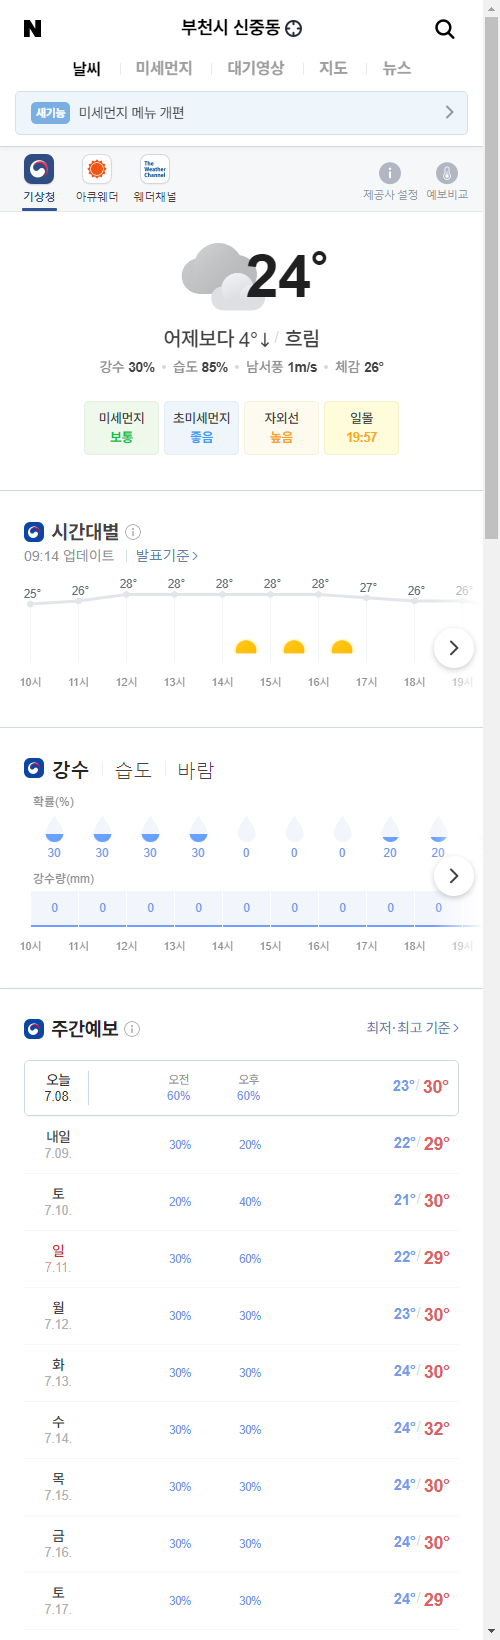
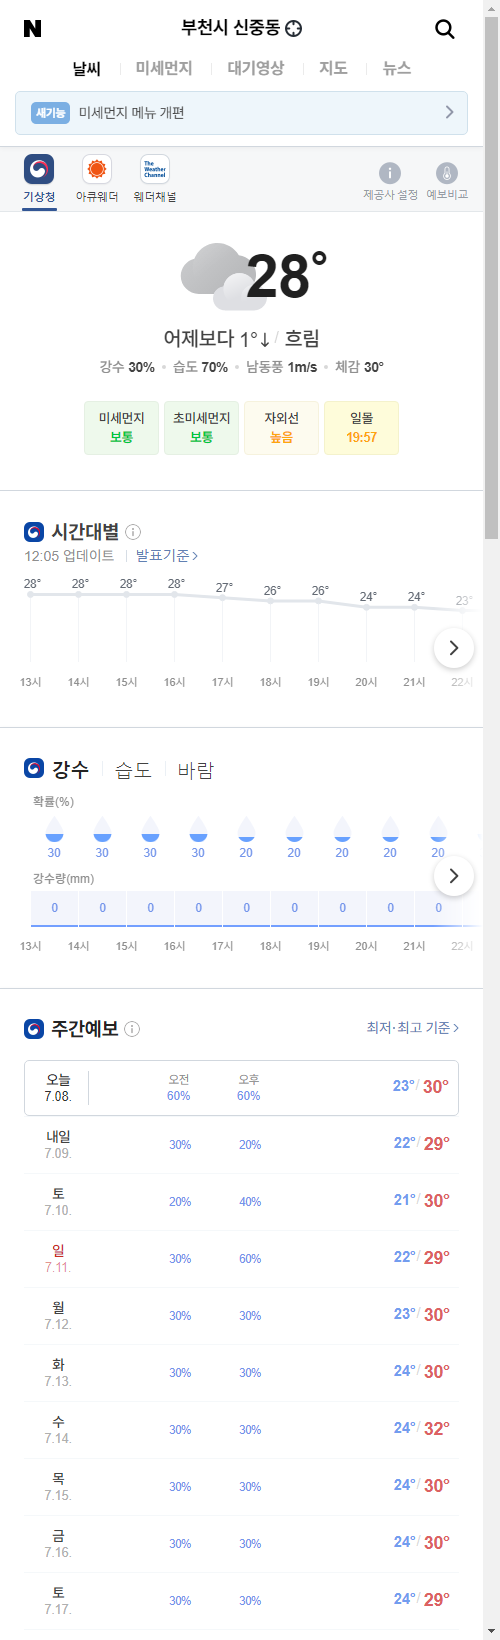
update result

diff --git a/README.md b/README.md
@@ -1,5 +1,5 @@
-##  2021-07-08 09:17:01   목요일 
-##### 날씨   -   어제보다 4° 낮아요흐림  
+##  2021-07-08 12:07:29   목요일 
+##### 날씨   -   어제보다 1° 낮아요흐림  
 <center><img src="../img/naver_weather_week.png"></center>
 ----
 ----
@@ -16,14 +16,14 @@
 <tr align = "right" > <td>DOW</td><td>34,681.79</td><td>104.42</td><td><font size="3" color="red" >0.3%</font></td><td><font size="3" color="black">0</font></td><td><font size="3" color="black">0</font></td><td>0</td>  </tr>
 <tr align = "right" > <td>NASDAQ</td><td>14,665.06</td><td>1.42</td><td><font size="3" color="red" >0.01%</font></td><td><font size="3" color="black">0</font></td><td><font size="3" color="black">0</font></td><td>0</td>  </tr>
 <tr align = "right" > <td>S&P</td><td>4,358.13</td><td>14.59</td><td><font size="3" color="red" >0.34%</font></td><td><font size="3" color="black">0</font></td><td><font size="3" color="black">0</font></td><td>0</td>  </tr>
-<tr align = "right" > <td>SHANHAI</td><td>3,553.72</td><td>23.46</td><td><font size="3" color="red" >0.66%</font></td><td><font size="3" color="black">0</font></td><td><font size="3" color="black">0</font></td><td>0</td>  </tr>
+<tr align = "right" > <td>SHANHAI</td><td>3,537.68</td><td>-16.04</td><td><font size="3" color="blue" >-0.45%</font></td><td><font size="3" color="black">0</font></td><td><font size="3" color="black">0</font></td><td>0</td>  </tr>
 <tr align = "right" > <td>INDIA</td><td>53,054.76</td><td>193.58</td><td><font size="3" color="red" >0.37%</font></td><td><font size="3" color="black">0</font></td><td><font size="3" color="black">0</font></td><td>0</td>  </tr>
 </table>
 ----
 ##### 시장
 <table border="1" bordercolor="blue" align = "center" >
 <tr align = "right" > <td>Item</td><td>Price</td><td>Diff</td><td>Rate</td><td>Buy</td><td>Sell</td><td>...</td>  </tr>
-<tr align = "right" > <td>USD</td><td>1,140.0</td><td>2.8</td><td><font size="3" color="red">0.25%</font></td><td><font size="3" color="black">1,110</font></td><td><font size="3" color="black">0</font></td><td>0</td>  </tr>
+<tr align = "right" > <td>USD</td><td>1,143.0</td><td>6.0</td><td><font size="3" color="red">0.53%</font></td><td><font size="3" color="black">1,110</font></td><td><font size="3" color="black">0</font></td><td>0</td>  </tr>
 <tr align = "right" > <td>WTI</td><td>72.2</td><td>-1.17</td><td><font size="3" color="blue">-1.59%</font></td><td><font size="3" color="black">29.0</font></td><td><font size="3" color="black">0</font></td><td>0</td>  </tr>
 <tr align = "right" > <td>GOLD</td><td>1,801.0</td><td>8.0</td><td><font size="3" color="red">0.44%</font></td><td><font size="3" color="black">0</font></td><td><font size="3" color="black">0</font></td><td>0</td>  </tr>
 </table>
@@ -31,26 +31,26 @@
 ##### 주가
 <table border="1" bordercolor="blue" align = "center" >
 <tr align = "right" > <td>Item</td><td>Price</td><td>Diff</td><td>Rate</td><td>Purchased</td><td>Sell</td><td>Buy</td>  </tr>
-<tr align = "right" > <td>한국 전력</td><td>24,800</td><td>-50</td><td><font size="3" color="blue">-0.2%</font></td><td>25,720</td><td><font size="3" color="black">27,700</font></td><td><font size="3" color="black">20,700</font></td>  </tr>
-<tr align = "right" > <td>삼성엔지니어.</td><td>23,350</td><td>0</td><td><font size="3" color="black">0.0%</font></td><td>18,935</td><td><font size="3" color="black">20,000</font></td><td><font size="3" color="black">8,000</font></td>  </tr>
-<tr align = "right" > <td>CJ CGV</td><td>29,950</td><td>-150</td><td><font size="3" color="blue">-0.5%</font></td><td>34,895</td><td><font size="3" color="black">36,000</font></td><td><font size="3" color="black">0</font></td>  </tr>
-<tr align = "right" > <td>아모레퍼시픽</td><td>246,000</td><td>2,000</td><td><font size="3" color="red">0.82%</font></td><td>235,350</td><td><font size="3" color="black">240,000</font></td><td><font size="3" color="black">130,000</font></td>  </tr>
-<tr align = "right" > <td>한화</td><td>31,350</td><td>150</td><td><font size="3" color="red">0.48%</font></td><td>25,550</td><td><font size="3" color="black">26,250</font></td><td><font size="3" color="black">26,250</font></td>  </tr>
-<tr align = "right" > <td>NAVER</td><td>422,000</td><td>4,500</td><td><font size="3" color="red">1.08%</font></td><td>147,200</td><td><font size="3" color="black">386,000</font></td><td><font size="3" color="black">286,000</font></td>  </tr>
-<tr align = "right" > <td>LG 화학우</td><td>384,500</td><td>-1,500</td><td><font size="3" color="blue">-0.39%</font></td><td>202,490</td><td><font size="3" color="black">384,000</font></td><td><font size="3" color="black">384,000</font></td>  </tr>
-<tr align = "right" > <td>스튜디오드래.</td><td>94,700</td><td>0</td><td><font size="3" color="black">0.0%</font></td><td>81,243</td><td><font size="3" color="black">85,200</font></td><td><font size="3" color="black">85,200</font></td>  </tr>
-<tr align = "right" > <td>QV미국IT</td><td>31,350</td><td>140</td><td><font size="3" color="red">0.45%</font></td><td>0</td><td><font size="3" color="black">30,000</font></td><td><font size="3" color="black">20,000</font></td>  </tr>
-<tr align = "right" > <td>삼성 전자우</td><td>73,500</td><td>-100</td><td><font size="3" color="blue">-0.14%</font></td><td>48,250</td><td><font size="3" color="black">56,000</font></td><td><font size="3" color="black">45,000</font></td>  </tr>
+<tr align = "right" > <td>한국 전력</td><td>24,600</td><td>-250</td><td><font size="3" color="blue">-1.01%</font></td><td>25,720</td><td><font size="3" color="black">27,700</font></td><td><font size="3" color="black">20,700</font></td>  </tr>
+<tr align = "right" > <td>삼성엔지니어.</td><td>23,000</td><td>-350</td><td><font size="3" color="blue">-1.5%</font></td><td>18,935</td><td><font size="3" color="black">20,000</font></td><td><font size="3" color="black">8,000</font></td>  </tr>
+<tr align = "right" > <td>CJ CGV</td><td>29,850</td><td>-250</td><td><font size="3" color="blue">-0.83%</font></td><td>34,895</td><td><font size="3" color="black">36,000</font></td><td><font size="3" color="black">0</font></td>  </tr>
+<tr align = "right" > <td>아모레퍼시픽</td><td>244,500</td><td>500</td><td><font size="3" color="red">0.2%</font></td><td>235,350</td><td><font size="3" color="black">240,000</font></td><td><font size="3" color="black">130,000</font></td>  </tr>
+<tr align = "right" > <td>한화</td><td>30,750</td><td>-450</td><td><font size="3" color="blue">-1.44%</font></td><td>25,550</td><td><font size="3" color="black">26,250</font></td><td><font size="3" color="black">26,250</font></td>  </tr>
+<tr align = "right" > <td>NAVER</td><td>425,000</td><td>7,500</td><td><font size="3" color="red">1.8%</font></td><td>147,200</td><td><font size="3" color="black">386,000</font></td><td><font size="3" color="black">286,000</font></td>  </tr>
+<tr align = "right" > <td>LG 화학우</td><td>380,000</td><td>-6,000</td><td><font size="3" color="blue">-1.55%</font></td><td>202,490</td><td><font size="3" color="black">384,000</font></td><td><font size="3" color="orangered">384,000</font></td>  </tr>
+<tr align = "right" > <td>스튜디오드래.</td><td>93,900</td><td>-800</td><td><font size="3" color="blue">-0.84%</font></td><td>81,243</td><td><font size="3" color="black">85,200</font></td><td><font size="3" color="black">85,200</font></td>  </tr>
+<tr align = "right" > <td>QV미국IT</td><td>31,330</td><td>120</td><td><font size="3" color="red">0.38%</font></td><td>0</td><td><font size="3" color="black">30,000</font></td><td><font size="3" color="black">20,000</font></td>  </tr>
+<tr align = "right" > <td>삼성 전자우</td><td>72,900</td><td>-700</td><td><font size="3" color="blue">-0.95%</font></td><td>48,250</td><td><font size="3" color="black">56,000</font></td><td><font size="3" color="black">45,000</font></td>  </tr>
 <tr align = "right" > <td>LS</td><td>69,300</td><td>100</td><td><font size="3" color="red">0.14%</font></td><td>71,900</td><td><font size="3" color="black">82,000</font></td><td><font size="3" color="black">60,000</font></td>  </tr>
-<tr align = "right" > <td>한화에어로스.</td><td>53,700</td><td>-800</td><td><font size="3" color="blue">-1.47%</font></td><td>25,700</td><td><font size="3" color="black">30,000</font></td><td><font size="3" color="black">24,000</font></td>  </tr>
+<tr align = "right" > <td>한화에어로스.</td><td>51,900</td><td>-2,600</td><td><font size="3" color="blue">-4.77%</font></td><td>25,700</td><td><font size="3" color="black">30,000</font></td><td><font size="3" color="black">24,000</font></td>  </tr>
 <tr align = "right" > <td>카카오</td><td>162,000</td><td>1,000</td><td><font size="3" color="red">0.62%</font></td><td>405,500</td><td><font size="3" color="black">440,000</font></td><td><font size="3" color="orangered">400,000</font></td>  </tr>
-<tr align = "right" > <td>호텔 신라</td><td>94,000</td><td>100</td><td><font size="3" color="red">0.11%</font></td><td>72,800</td><td><font size="3" color="black">100,000</font></td><td><font size="3" color="black">70,000</font></td>  </tr>
-<tr align = "right" > <td>S-Oil</td><td>106,000</td><td>500</td><td><font size="3" color="red">0.47%</font></td><td>62,842</td><td><font size="3" color="black">100,000</font></td><td><font size="3" color="black">50,000</font></td>  </tr>
-<tr align = "right" > <td>LG전자</td><td>163,500</td><td>-1,500</td><td><font size="3" color="blue">-0.91%</font></td><td>82,022</td><td><font size="3" color="black">100,000</font></td><td><font size="3" color="black">60,000</font></td>  </tr>
-<tr align = "right" > <td>KT&G</td><td>83,500</td><td>-100</td><td><font size="3" color="blue">-0.12%</font></td><td>80,400</td><td><font size="3" color="black">100,000</font></td><td><font size="3" color="black">70,000</font></td>  </tr>
-<tr align = "right" > <td>지역난방공사</td><td>42,950</td><td>-150</td><td><font size="3" color="blue">-0.35%</font></td><td>43,590</td><td><font size="3" color="black">60,000</font></td><td><font size="3" color="black">30,000</font></td>  </tr>
-<tr align = "right" > <td>KOEDX은행</td><td>7,405</td><td>-5</td><td><font size="3" color="blue">-0.07%</font></td><td>5,178</td><td><font size="3" color="black">6,225</font></td><td><font size="3" color="black">6,225</font></td>  </tr>
-<tr align = "right" > <td>글로벌럭셔리</td><td>18,025</td><td>-25</td><td><font size="3" color="blue">-0.14%</font></td><td>15,260</td><td><font size="3" color="black">20,000</font></td><td><font size="3" color="black">10,000</font></td>  </tr>
-<tr align = "right" > <td>한국금융지주</td><td>98,000</td><td>1,100</td><td><font size="3" color="red">1.14%</font></td><td>0</td><td><font size="3" color="black">82,000</font></td><td><font size="3" color="black">60,000</font></td>  </tr>
+<tr align = "right" > <td>호텔 신라</td><td>93,000</td><td>-900</td><td><font size="3" color="blue">-0.96%</font></td><td>72,800</td><td><font size="3" color="black">100,000</font></td><td><font size="3" color="black">70,000</font></td>  </tr>
+<tr align = "right" > <td>S-Oil</td><td>102,000</td><td>-3,500</td><td><font size="3" color="blue">-3.32%</font></td><td>62,842</td><td><font size="3" color="black">100,000</font></td><td><font size="3" color="black">50,000</font></td>  </tr>
+<tr align = "right" > <td>LG전자</td><td>161,500</td><td>-3,500</td><td><font size="3" color="blue">-2.12%</font></td><td>82,022</td><td><font size="3" color="black">100,000</font></td><td><font size="3" color="black">60,000</font></td>  </tr>
+<tr align = "right" > <td>KT&G</td><td>83,200</td><td>-400</td><td><font size="3" color="blue">-0.48%</font></td><td>80,400</td><td><font size="3" color="black">100,000</font></td><td><font size="3" color="black">70,000</font></td>  </tr>
+<tr align = "right" > <td>지역난방공사</td><td>42,250</td><td>-850</td><td><font size="3" color="blue">-1.97%</font></td><td>43,590</td><td><font size="3" color="black">60,000</font></td><td><font size="3" color="black">30,000</font></td>  </tr>
+<tr align = "right" > <td>KOEDX은행</td><td>7,395</td><td>-15</td><td><font size="3" color="blue">-0.2%</font></td><td>5,178</td><td><font size="3" color="black">6,225</font></td><td><font size="3" color="black">6,225</font></td>  </tr>
+<tr align = "right" > <td>글로벌럭셔리</td><td>18,015</td><td>-35</td><td><font size="3" color="blue">-0.19%</font></td><td>15,260</td><td><font size="3" color="black">20,000</font></td><td><font size="3" color="black">10,000</font></td>  </tr>
+<tr align = "right" > <td>한국금융지주</td><td>97,800</td><td>900</td><td><font size="3" color="red">0.93%</font></td><td>0</td><td><font size="3" color="black">82,000</font></td><td><font size="3" color="black">60,000</font></td>  </tr>
 </table>
 ----
